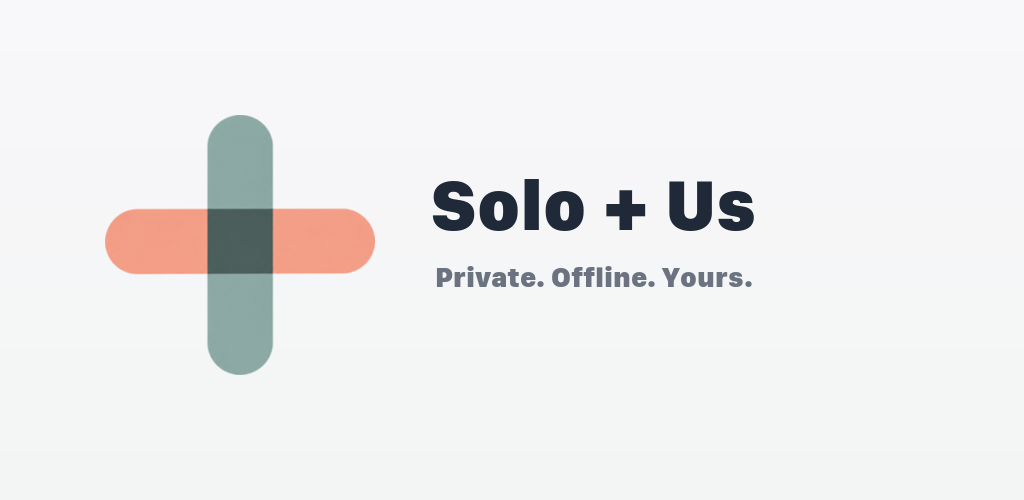
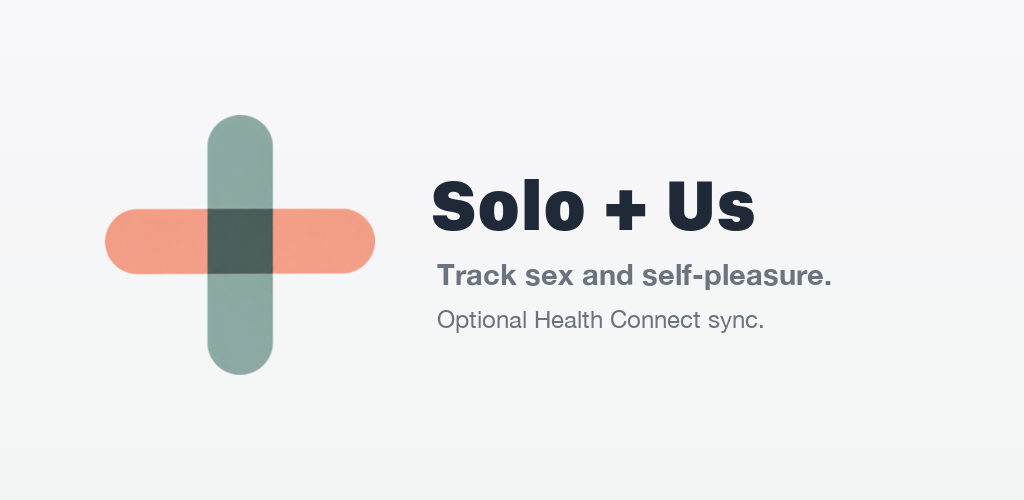
[docs] HC同期の同意ダイアログの方針と確認結果、フィーチャーグラフィックのタグライン差し替えを記録し、画像を差し替え

Changed region(s): [[0.4062, 0.51, 0.8125, 0.6], [0.4062, 0.63, 0.75, 0.66]]

diff --git a/CLAUDE.md b/CLAUDE.md
@@ -122,6 +122,15 @@ iOS ではモジュールが「どのメソッドを呼んでも `throw` する 
 
 経緯（§10.5 違反）: `docs/health-connect-dev-notes.md`
 
+### HC 同期をオンにする前の確認ダイアログ（`app/settings/health-connect.tsx` の `confirmEnableConsent`）は外さない・順序を変えない
+
+同期のスイッチをオンにすると、**Health Connect の権限要求より前に**、書く内容・以後は記録のたびに自動で書くこと・他のアプリが読めること・残り方を示す確認ダイアログを出す。Play のユーザーデータポリシー（Prominent Disclosure & Consent）が、権限要求を直前のアプリ内の開示と対にすることを求めるため。データセーフティで「ヘルス情報を共有」と申告し、共有の免除の根拠にもしている。
+
+- 「簡素化」のためにこの確認を外す、権限要求の後ろへ動かす、枠外タップ・戻るボタンを同意として扱う、のいずれもしない
+- 有効化の後に出す「過去の記録も送りますか？」（`offerExistingRecords`）は別物。「あとで」でも以後の自動同期は有効のまま。件数は有効化の**後**でないと 0 になる（`countPendingResync` が `healthConnect.enabled` を見る）ので、順序を入れ替えない
+
+経緯・確認結果: `docs/health-connect-release.md`
+
 ### package.json にあるのに未リンクなネイティブモジュール（Gradle デーモンのキャッシュ）
 
 新しい（native code を持つ）Expo モジュールを `package.json` に追加した／未使用だったモジュールを初めて import したときは、通常のビルドが成功してもリンクされていないことがある（Gradle デーモンが autolinking の解決結果を古いまま使い回すため）。疑わしければ `cd android && ./gradlew --stop` してから再ビルドする。リンクの確認に `android/build/generated/autolinking/autolinking.json` は使えない（別物）。確認手順・経緯: `docs/android-build-notes.md`
